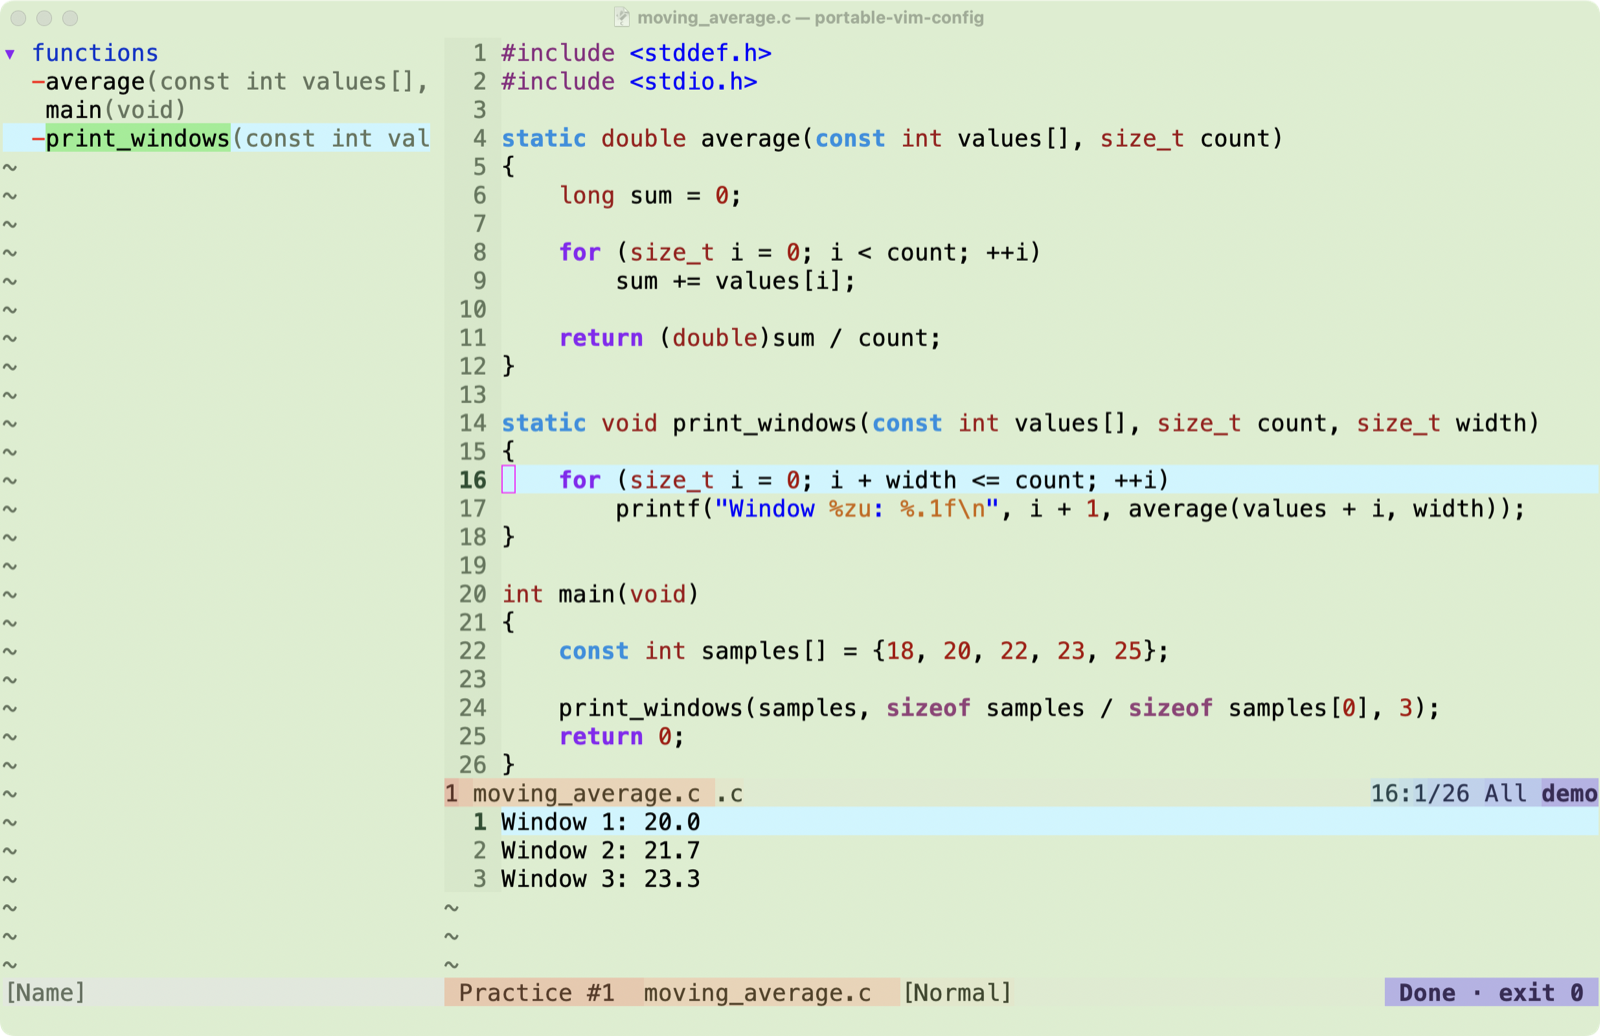
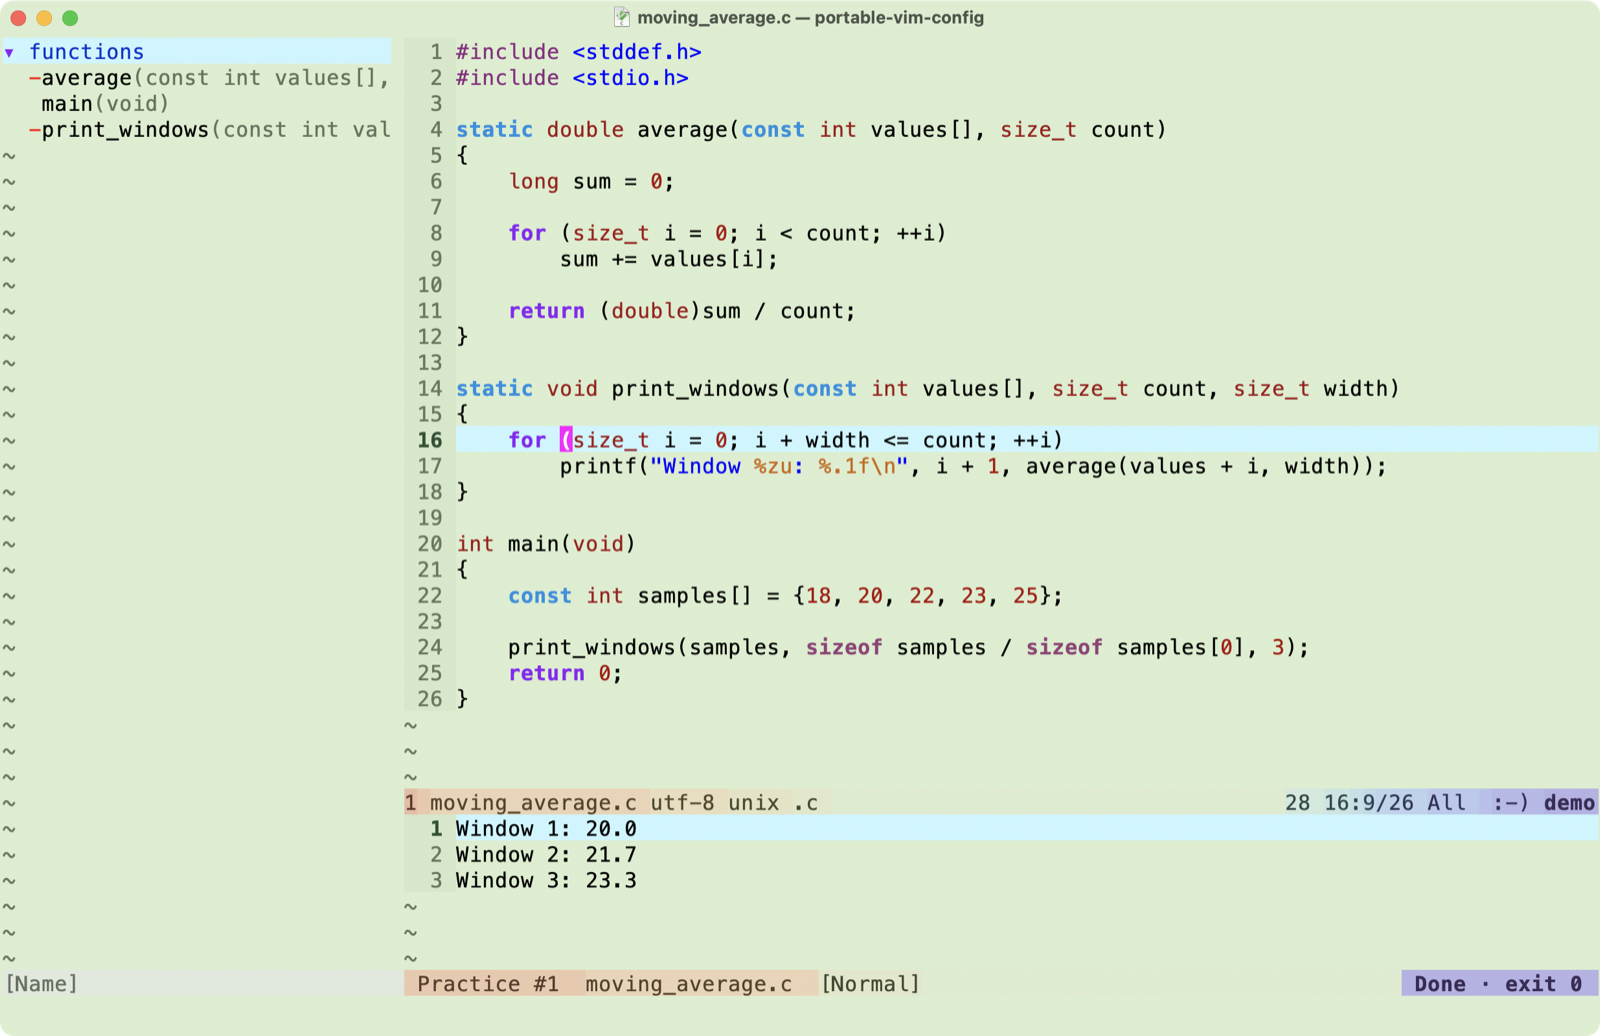
Show the Gentoo Quickfix workflow and refresh the MacVim screenshot

diff --git a/README.md b/README.md
@@ -8,6 +8,10 @@
 
 在 MacVim 中编辑 C 示例，左侧用 Tagbar 浏览函数，右下方显示 `:PracticeRun` 编译并运行后的输出。
 
+![Gentoo 终端 Vim 使用 Celibate 配色，Quickfix 中的 Clang 警告定位到 C 源码第 18 行。](docs/images/gentoo-celibate-quickfix.webp)
+
+在 Gentoo 的终端 Vim 中使用 Celibate 配色。Clang 报告了一个未使用的变量，从 Quickfix 可以直接跳到 `scale` 的声明。
+
 ## macOS 和 Linux
 
 日常使用的仓库放在 `~/.vim/config`，开发时可以另建一份检出。如果已经有 `~/.vim/config` 或 `~/.vimrc`，先将旧版备份到其他位置。旧部署中的 `~/.vim/config/.vim-pack` 如有独立安装的插件，可从备份移到 `~/.vim/.vim-pack`。已有 `~/.vim/bundle` 和 `~/.vim/vimrc.local` 可以继续使用。
